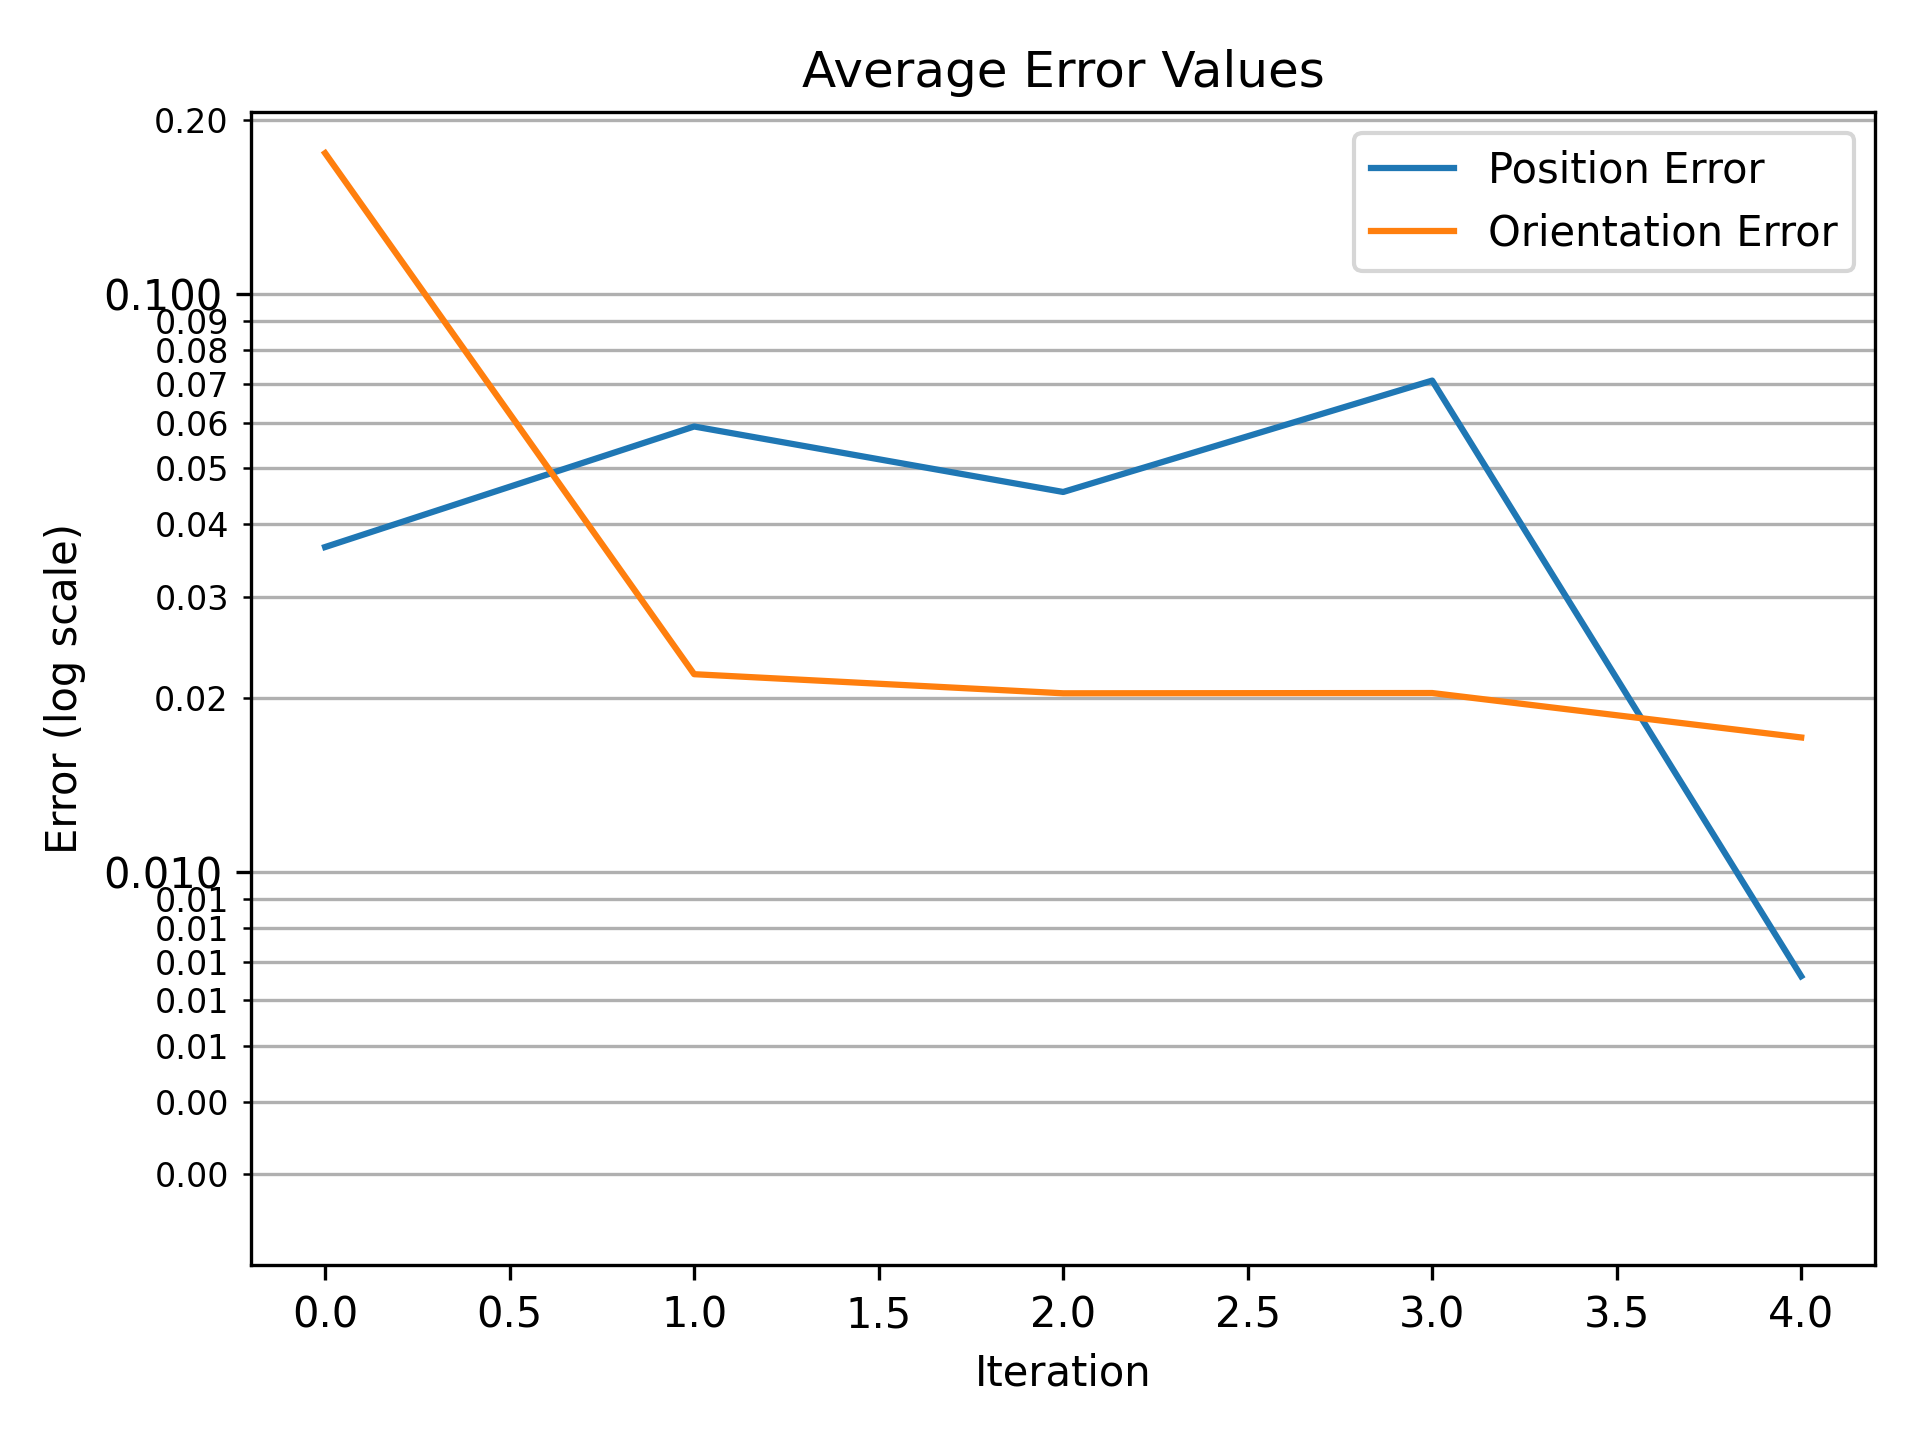
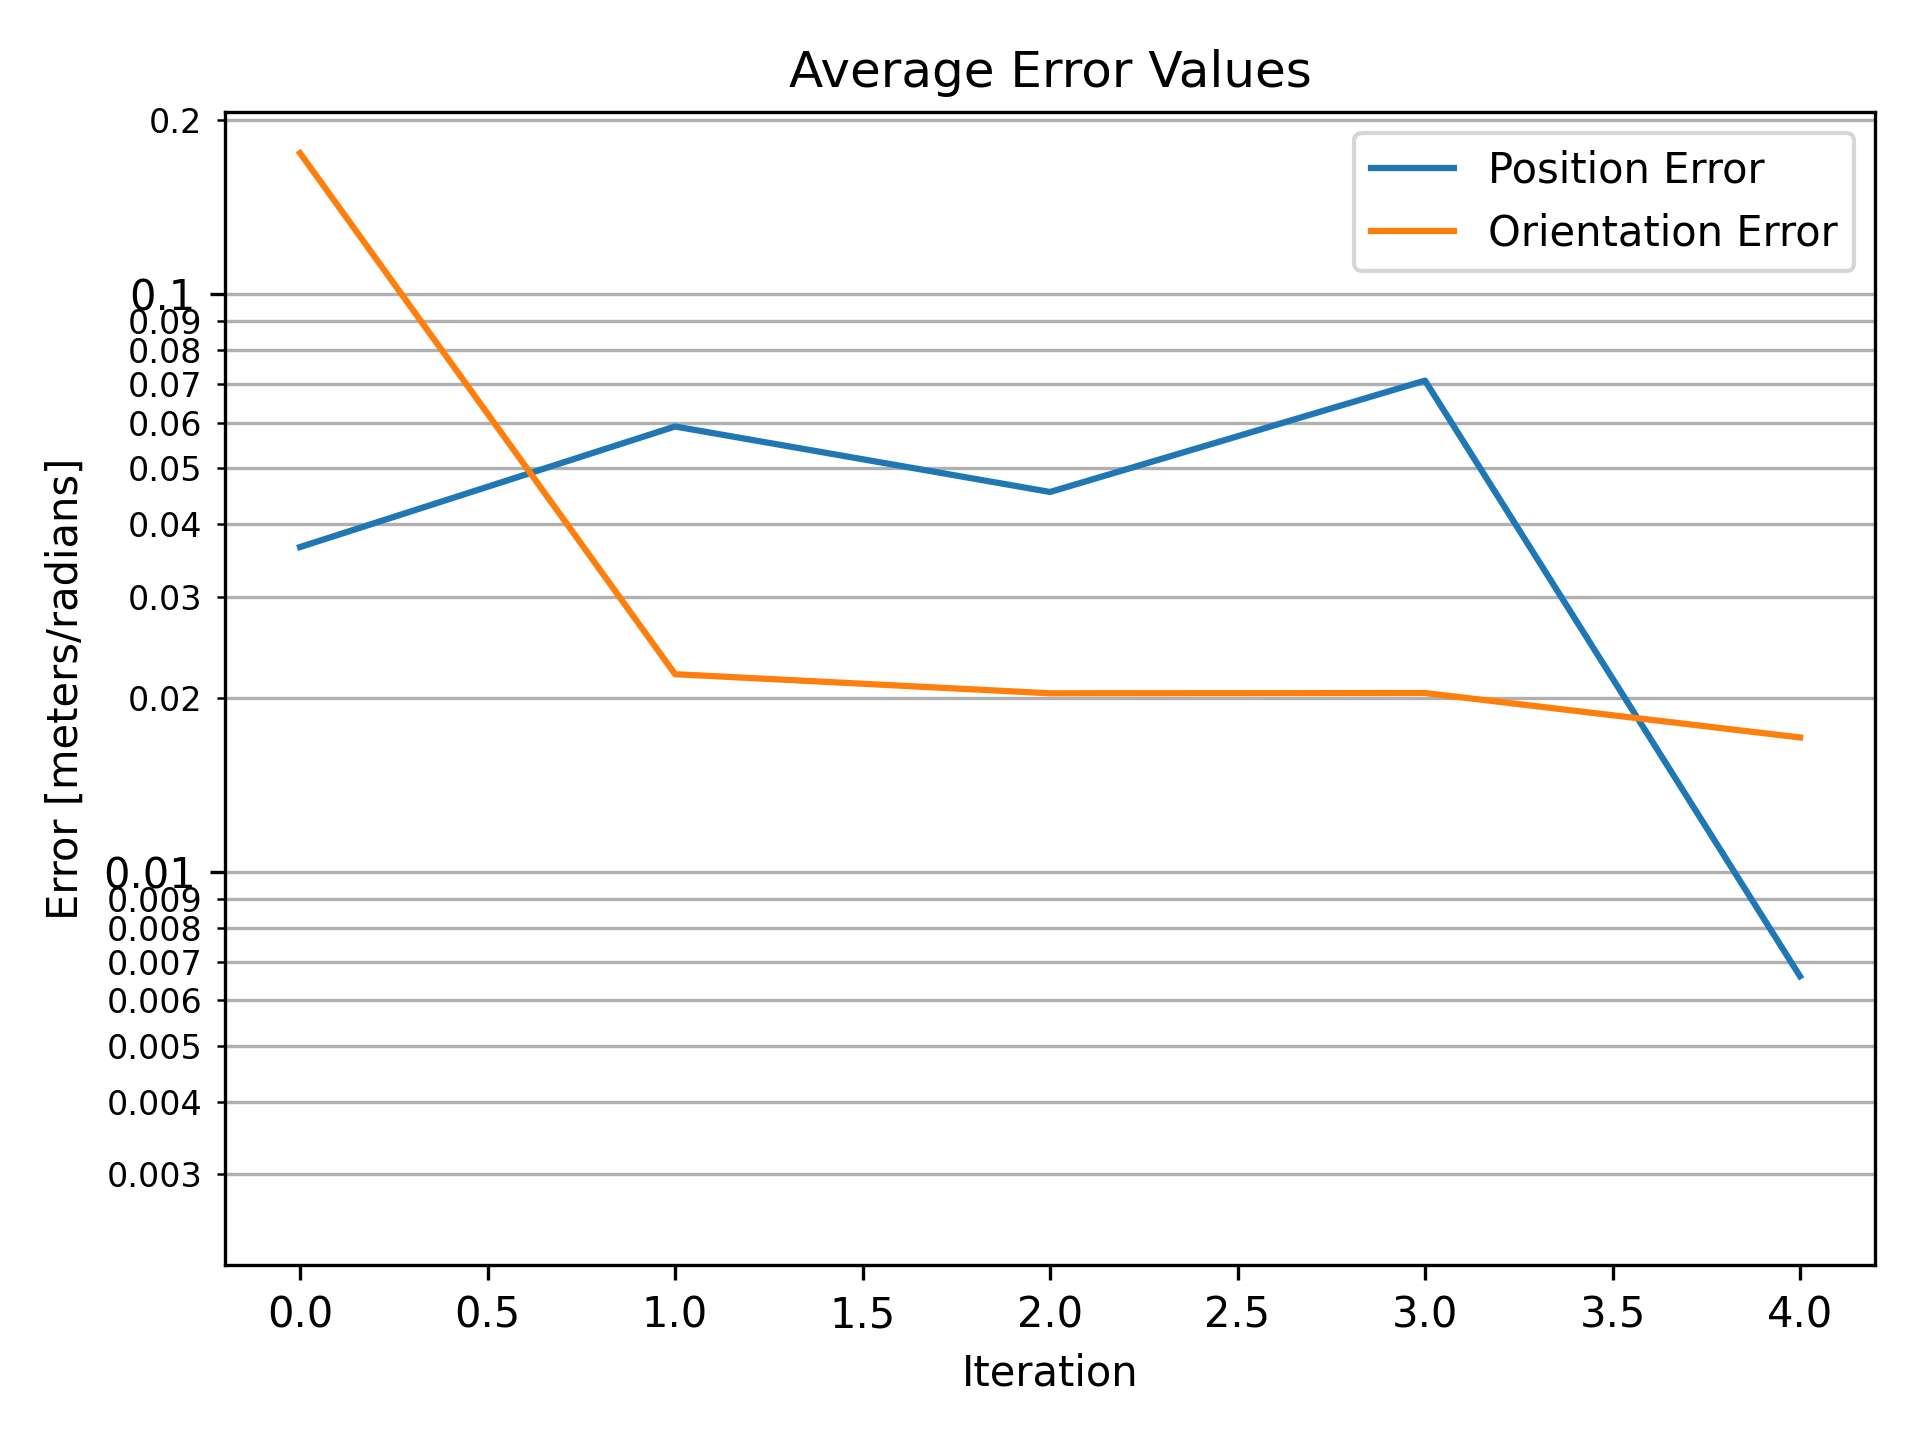
added new plots

diff --git a/scripts/plotCalibrationData.py b/scripts/plotCalibrationData.py
@@ -1,6 +1,6 @@
 import pandas as pd
 import matplotlib.pyplot as plt
-from matplotlib.ticker import LogLocator, ScalarFormatter
+from matplotlib.ticker import LogLocator, ScalarFormatter, FormatStrFormatter
 import numpy as np
 import os
 
@@ -18,7 +18,7 @@ plt.plot(df['Orientation Error'], label='Orientation Error')
 plt.yscale('log')
 plt.title('Average Error Values')
 plt.xlabel('Iteration')
-plt.ylabel('Error (log scale)')
+plt.ylabel('Error [meters/radians]')
 plt.legend()
 plt.grid(True, which='both', axis='y')
 
@@ -32,8 +32,9 @@ if min_val is not None and min_val > 0:
 ax = plt.gca()
 ax.yaxis.set_major_locator(LogLocator(base=10.0, numticks=15))
 ax.yaxis.set_minor_locator(LogLocator(base=10.0, subs='auto', numticks=100))
-ax.yaxis.set_major_formatter(ScalarFormatter())
-ax.yaxis.set_minor_formatter(ScalarFormatter())
+# Show more significant figures on the y axis
+ax.yaxis.set_major_formatter(FormatStrFormatter('%.6g'))
+ax.yaxis.set_minor_formatter(FormatStrFormatter('%.6g'))
 ax.tick_params(axis='y', which='minor', labelsize=8)
 plt.tight_layout()
 plt.savefig(f"{base_name}_avg_error.png", dpi=300)
@@ -47,7 +48,7 @@ for col in pose_cols:
     plt.plot(diff, label=col)
 plt.title('Estimated Target Pose (Difference from Final Value)')
 plt.xlabel('Iteration')
-plt.ylabel('Value - Final Value')
+plt.ylabel('Value - Final Value [meters/radians]')
 plt.legend()
 plt.grid(True)
 plt.tight_layout()
